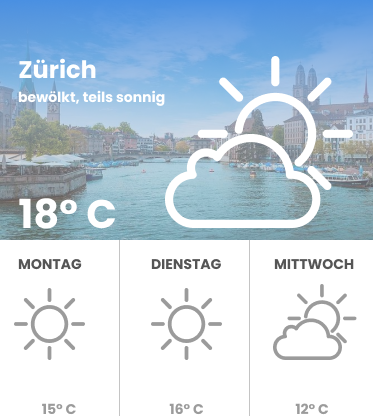
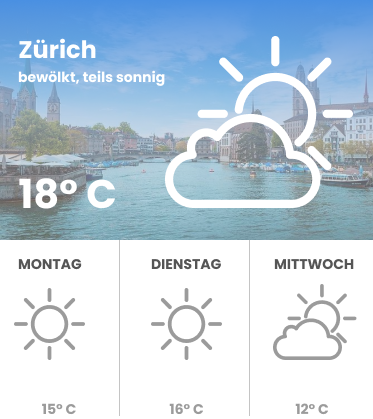
letzte Anpassungen

diff --git a/src/components/grid.scss b/src/components/grid.scss
@@ -5,45 +5,13 @@
   display: grid;
   grid-template-columns: repeat(12, 1fr);
   grid-column-gap: 1.5rem;
-  grid-template-rows: repeat(16, 1fr);
+  grid-template-rows: auto repeat(15, 1fr);
   grid-row-gap: 1.5rem;
   @include media(m) {
+    grid-template-rows: repeat(16, 1fr);
     height: 20rem;
   }
 }
-// Grid-Areas
-.wirtschaft-titel {
-  grid-area: wirtschaft-titel;
-}
-
-.wetter-titel {
-  grid-area: wetter-titel;
-}
-
-.wirtschaft-beitrag-gross {
-  grid-area: wirtschaft-beitrag-gross;
-}
-
-.wirtschaft-beitrag-klein-1 {
-  grid-area: wirtschaft-beitrag-klein-1;
-}
-
-.wirtschaft-beitrag-klein-2 {
-  grid-area: wirtschaft-beitrag-klein-2;
-}
-
-.wirtschaft-beitrag-klein-3 {
-  grid-area: wirtschaft-beitrag-klein-3;
-}
-
-.wirtschaft-beitrag-klein-4 {
-  grid-area: wirtschaft-beitrag-klein-4;
-}
-
-.wetter-widget {
-  grid-area: wetter-widget;
-}
-
 
 .grid-test {
   // Grid Mobile
@@ -54,16 +22,29 @@
   "wirtschaft-beitrag-gross wirtschaft-beitrag-gross wirtschaft-beitrag-gross wirtschaft-beitrag-gross wirtschaft-beitrag-gross wirtschaft-beitrag-gross wirtschaft-beitrag-gross wirtschaft-beitrag-gross wirtschaft-beitrag-gross wirtschaft-beitrag-gross wirtschaft-beitrag-gross wirtschaft-beitrag-gross"
   "wirtschaft-beitrag-gross wirtschaft-beitrag-gross wirtschaft-beitrag-gross wirtschaft-beitrag-gross wirtschaft-beitrag-gross wirtschaft-beitrag-gross wirtschaft-beitrag-gross wirtschaft-beitrag-gross wirtschaft-beitrag-gross wirtschaft-beitrag-gross wirtschaft-beitrag-gross wirtschaft-beitrag-gross"
   "wirtschaft-beitrag-gross wirtschaft-beitrag-gross wirtschaft-beitrag-gross wirtschaft-beitrag-gross wirtschaft-beitrag-gross wirtschaft-beitrag-gross wirtschaft-beitrag-gross wirtschaft-beitrag-gross wirtschaft-beitrag-gross wirtschaft-beitrag-gross wirtschaft-beitrag-gross wirtschaft-beitrag-gross"
-  "wetter-widget wetter-widget wetter-widget wetter-widget wetter-widget wetter-widget wetter-widget wetter-widget wetter-widget wetter-widget wetter-widget wetter-widget"
-  "wetter-widget wetter-widget wetter-widget wetter-widget wetter-widget wetter-widget wetter-widget wetter-widget wetter-widget wetter-widget wetter-widget wetter-widget"
-  "wetter-widget wetter-widget wetter-widget wetter-widget wetter-widget wetter-widget wetter-widget wetter-widget wetter-widget wetter-widget wetter-widget wetter-widget"
-  "wetter-widget wetter-widget wetter-widget wetter-widget wetter-widget wetter-widget wetter-widget wetter-widget wetter-widget wetter-widget wetter-widget wetter-widget"
   "wirtschaft-beitrag-klein-1 wirtschaft-beitrag-klein-1 wirtschaft-beitrag-klein-1 wirtschaft-beitrag-klein-1 wirtschaft-beitrag-klein-1 wirtschaft-beitrag-klein-1 wirtschaft-beitrag-klein-2 wirtschaft-beitrag-klein-2 wirtschaft-beitrag-klein-2 wirtschaft-beitrag-klein-2 wirtschaft-beitrag-klein-2 wirtschaft-beitrag-klein-2"
   "wirtschaft-beitrag-klein-1 wirtschaft-beitrag-klein-1 wirtschaft-beitrag-klein-1 wirtschaft-beitrag-klein-1 wirtschaft-beitrag-klein-1 wirtschaft-beitrag-klein-1 wirtschaft-beitrag-klein-2 wirtschaft-beitrag-klein-2 wirtschaft-beitrag-klein-2 wirtschaft-beitrag-klein-2 wirtschaft-beitrag-klein-2 wirtschaft-beitrag-klein-2"
   "wirtschaft-beitrag-klein-1 wirtschaft-beitrag-klein-1 wirtschaft-beitrag-klein-1 wirtschaft-beitrag-klein-1 wirtschaft-beitrag-klein-1 wirtschaft-beitrag-klein-1 wirtschaft-beitrag-klein-2 wirtschaft-beitrag-klein-2 wirtschaft-beitrag-klein-2 wirtschaft-beitrag-klein-2 wirtschaft-beitrag-klein-2 wirtschaft-beitrag-klein-2"
   "wirtschaft-beitrag-klein-3 wirtschaft-beitrag-klein-3 wirtschaft-beitrag-klein-3 wirtschaft-beitrag-klein-3 wirtschaft-beitrag-klein-3 wirtschaft-beitrag-klein-3 wirtschaft-beitrag-klein-4 wirtschaft-beitrag-klein-4 wirtschaft-beitrag-klein-4 wirtschaft-beitrag-klein-4 wirtschaft-beitrag-klein-4 wirtschaft-beitrag-klein-4"
   "wirtschaft-beitrag-klein-3 wirtschaft-beitrag-klein-3 wirtschaft-beitrag-klein-3 wirtschaft-beitrag-klein-3 wirtschaft-beitrag-klein-3 wirtschaft-beitrag-klein-3 wirtschaft-beitrag-klein-4 wirtschaft-beitrag-klein-4 wirtschaft-beitrag-klein-4 wirtschaft-beitrag-klein-4 wirtschaft-beitrag-klein-4 wirtschaft-beitrag-klein-4"
-  "wirtschaft-beitrag-klein-3 wirtschaft-beitrag-klein-3 wirtschaft-beitrag-klein-3 wirtschaft-beitrag-klein-3 wirtschaft-beitrag-klein-3 wirtschaft-beitrag-klein-3 wirtschaft-beitrag-klein-4 wirtschaft-beitrag-klein-4 wirtschaft-beitrag-klein-4 wirtschaft-beitrag-klein-4 wirtschaft-beitrag-klein-4 wirtschaft-beitrag-klein-4";
+  "wirtschaft-beitrag-klein-3 wirtschaft-beitrag-klein-3 wirtschaft-beitrag-klein-3 wirtschaft-beitrag-klein-3 wirtschaft-beitrag-klein-3 wirtschaft-beitrag-klein-3 wirtschaft-beitrag-klein-4 wirtschaft-beitrag-klein-4 wirtschaft-beitrag-klein-4 wirtschaft-beitrag-klein-4 wirtschaft-beitrag-klein-4 wirtschaft-beitrag-klein-4"
+  "wetter-titel wetter-titel wetter-titel wetter-titel wetter-titel wetter-titel wetter-titel wetter-titel wetter-titel wetter-titel wetter-titel wetter-titel"
+  "wetter-widget wetter-widget wetter-widget wetter-widget wetter-widget wetter-widget wetter-widget wetter-widget wetter-widget wetter-widget wetter-widget wetter-widget"
+  "wetter-widget wetter-widget wetter-widget wetter-widget wetter-widget wetter-widget wetter-widget wetter-widget wetter-widget wetter-widget wetter-widget wetter-widget"
+  "wetter-widget wetter-widget wetter-widget wetter-widget wetter-widget wetter-widget wetter-widget wetter-widget wetter-widget wetter-widget wetter-widget wetter-widget"
+  "wetter-widget wetter-widget wetter-widget wetter-widget wetter-widget wetter-widget wetter-widget wetter-widget wetter-widget wetter-widget wetter-widget wetter-widget"
+  "wetter-widget wetter-widget wetter-widget wetter-widget wetter-widget wetter-widget wetter-widget wetter-widget wetter-widget wetter-widget wetter-widget wetter-widget"
+  "wetter-widget wetter-widget wetter-widget wetter-widget wetter-widget wetter-widget wetter-widget wetter-widget wetter-widget wetter-widget wetter-widget wetter-widget"
+  "wetter-widget wetter-widget wetter-widget wetter-widget wetter-widget wetter-widget wetter-widget wetter-widget wetter-widget wetter-widget wetter-widget wetter-widget"
+  "wetter-widget wetter-widget wetter-widget wetter-widget wetter-widget wetter-widget wetter-widget wetter-widget wetter-widget wetter-widget wetter-widget wetter-widget"
+  "wetter-widget wetter-widget wetter-widget wetter-widget wetter-widget wetter-widget wetter-widget wetter-widget wetter-widget wetter-widget wetter-widget wetter-widget"
+  "wetter-widget wetter-widget wetter-widget wetter-widget wetter-widget wetter-widget wetter-widget wetter-widget wetter-widget wetter-widget wetter-widget wetter-widget"
+  "wetter-widget wetter-widget wetter-widget wetter-widget wetter-widget wetter-widget wetter-widget wetter-widget wetter-widget wetter-widget wetter-widget wetter-widget"
+  "wetter-widget wetter-widget wetter-widget wetter-widget wetter-widget wetter-widget wetter-widget wetter-widget wetter-widget wetter-widget wetter-widget wetter-widget"
+  "wetter-widget wetter-widget wetter-widget wetter-widget wetter-widget wetter-widget wetter-widget wetter-widget wetter-widget wetter-widget wetter-widget wetter-widget"
+  "wetter-widget wetter-widget wetter-widget wetter-widget wetter-widget wetter-widget wetter-widget wetter-widget wetter-widget wetter-widget wetter-widget wetter-widget"
+  "wetter-widget wetter-widget wetter-widget wetter-widget wetter-widget wetter-widget wetter-widget wetter-widget wetter-widget wetter-widget wetter-widget wetter-widget"
+  "wetter-widget wetter-widget wetter-widget wetter-widget wetter-widget wetter-widget wetter-widget wetter-widget wetter-widget wetter-widget wetter-widget wetter-widget";
   @include media(m) {
     //Desktop
     grid-template-areas:
@@ -201,7 +182,7 @@
 
 .card-4-5 {
   grid-column: span 12;
-  grid-row: span 7;
+  grid-row: span 3;
   @include media(m) {
     grid-column: span 4;
     grid-row: span 5;
@@ -258,7 +239,7 @@
 
 .card-4-17 {
   grid-column: span 12;
-  grid-row: span 2;
+  grid-row: span 8;
   @include media(m) {
     grid-column: span 4;
     grid-row: span 17;
@@ -339,7 +320,7 @@
 
 .card-8-5 {
   grid-column: span 12;
-  grid-row: span 4;
+  grid-row: span 1;
   align-items: center;
   @include media(m) {
     grid-column: span 8;
@@ -406,8 +387,8 @@
 
 .bild_in_grid_kolumne {
   overflow: hidden;
-	width: 35%;
-	height: 35%;
+	width: 35vw;
+	height: 35vw;
   margin-top: 1rem;
   margin-bottom: 1rem;
   margin-left: auto;
@@ -416,4 +397,76 @@
     width: 50%;
   	height: 50%;
   }
+}
+
+
+
+.bild_in_grid_wetter,
+.bild_in_grid_newsletter {
+  width: 100%;
+  img {
+    height: auto;
+  }
+}
+
+
+
+.bild_in_grid_werbung {
+  overflow: hidden;
+  width: 100%;
+  height: auto;
+  @include media(m) {
+    overflow: hidden;
+    width: 100%;
+  }
+  img {
+    height: auto;
+  }
+}
+
+.newsletter-werbung {
+  height: auto;
+  grid-template-rows: auto;
+  margin-top: 2rem;
+  margin-bottom: 2rem;
+  @include media(m) {
+    margin-top: 8rem;
+    grid-template-rows: repeat(1,1fr);
+  }
+}
+
+
+
+
+// Grid-Areas
+.wirtschaft-titel {
+  grid-area: wirtschaft-titel;
+}
+
+.wetter-titel {
+  grid-area: wetter-titel;
+}
+
+.wirtschaft-beitrag-gross {
+  grid-area: wirtschaft-beitrag-gross;
+}
+
+.wirtschaft-beitrag-klein-1 {
+  grid-area: wirtschaft-beitrag-klein-1;
+}
+
+.wirtschaft-beitrag-klein-2 {
+  grid-area: wirtschaft-beitrag-klein-2;
+}
+
+.wirtschaft-beitrag-klein-3 {
+  grid-area: wirtschaft-beitrag-klein-3;
+}
+
+.wirtschaft-beitrag-klein-4 {
+  grid-area: wirtschaft-beitrag-klein-4;
+}
+
+.wetter-widget {
+  grid-area: wetter-widget;
 }

diff --git a/src/index.html b/src/index.html
@@ -142,7 +142,13 @@
       </div>
 
 
-      <div class="card-4-17 wetter-widget">
+      <div class="card-12-1 wetter-titel">
+        <hr />
+        <h6>Wetter</h6>
+      </div>
+
+
+      <div class="card-4-17 wetter-widget bild_in_grid_wetter">
         <div><img src="./assets/images/NP_wetter.png" alt="Wetter" /></div>
       </div>
 
@@ -157,7 +163,6 @@
           Wer zahlt die Druckerpatrone?
         </h3>
       </div>
-
 
 
       <div class="card-2-8 wirtschaft-beitrag-klein-1">
@@ -194,81 +199,81 @@
         <h3>Stabilisator Sergio Ermotti sagt Ciao</h3>
       </div>
     </div>
-
     <br />
     <!-- Wirtschaft + Wetter END -->
 
 
     <!-- Newsletter + Werbung Start -->
-    <br />
-    <br />
-    <br />
-    <br />
-    <br />
-    <br />
-    <div class="grid-12-6">
-      <div class="card-4-5 bild_in_grid_passend">
+    <div class="grid-12-6 newsletter-werbung">
+      <div class="card-4-1 bild_in_grid_newsletter">
         <img src="./assets/images/NP_newsletter.png" alt="Newsletter" />
       </div>
-
-
-      <div class="card-8-5">
-        <div class="bild_in_grid_passend">
+      <div class="card-8-1">
+        <div class="bild_in_grid_werbung">
           <img src="./assets/images/NP_Werbe-Banner.gif" alt="Werbung" />
         </div>
       </div>
-      <!-- Newsletter + Werbung End -->
+    </div>
+    <!-- Newsletter + Werbung End -->
 
+    <!-- Kolumne Start-->
 
-
-      <!-- Kolumne Start-->
+    <div class="grid-12-6">
       <div class="card-12-1">
         <hr />
         <h6>KOMMENTAR ZU</h6>
         <div style="float:right;height:1.2rem;width:auto;margin-top:-1em;"> <img src="./assets/images/NP_Pfeile-Kolumne.svg" /> </div>
       </div>
 
-      <div class="card-3-10" style="text-align: center">
+      <div class="card-3-10" style="text-align:center;padding-left:1rem;padding-right:1rem;">
         <h5>Schweiz und China</h5>
         <h1>Das opportunistische Schweigen ist passé</h1>
-        <h4>Die Schweiz muss China wegen der Menschenrechtsverletzungen deutlicher kritisieren. Und sie sollte die Sanktionsregelung der EU übernehmen.</h4>
+        <h4>Die Schweiz muss China wegen Menschenrechtsverletzungen deutlicher kritisieren. Und sie sollte die Sanktionsregelung der EU übernehmen.</h4>
         <div class="bild_in_grid_kolumne">
-          <img src="./assets/images/NP_Kolumne-1.png" alt="Laeden" />
+          <img src="./assets/images/NP_Kolumne-1.png" alt="Claudia Blumer" />
         </div>
         <h4>Claudia Blumer | 18.01.2021</h4>
+        <br />
+        <hr />
       </div>
 
 
-      <div class="card-3-10" style="text-align: center">
+      <div class="card-3-10" style="text-align:center;padding-left:1rem;padding-right:1rem;">
         <h5>Verkauf der Postbank</h5>
         <h1>Die Privatisierung der Postfinance hat kaum eine Chance</h1>
         <h4>Die Postfinance verliert Geld und Kunden. Aber die jetzt geplante Privatisierung bringt keine Rettung.</h4>
         <div class="bild_in_grid_kolumne">
-          <img src="./assets/images/NP_Kolumne-2.png" alt="Laeden" />
+          <img src="./assets/images/NP_Kolumne-2.png" alt="Jorgos Brouzos" />
         </div>
         <h4>Jorgos Brouzos | 18.01.2021</h4>
+        <br />
+        <hr />
       </div>
 
 
-      <div class="card-3-10" style="text-align: center">
+      <div class="card-3-10" style="text-align:center;padding-left:1rem;padding-right:1rem;">
         <h5>Raffainers Abwerbung</h5>
         <h1>Was für eine Doppelmoral des SC Bern!</h1>
         <h4> Als Treiber der Ligareformen beschwören die Berner das Wohl aller. Nun jagen sie dem HC Davos den Sportchef ab. Das zeigt: Solidarität ist nur eine Floskel.</h4>
         <div class="bild_in_grid_kolumne">
-          <img src="./assets/images/NP_Kolumne-3.png" alt="Laeden" />
+          <img src="./assets/images/NP_Kolumne-3.png" alt="Simon Graf" />
         </div>
         <h4>Simon Graf | 19.01.2021</h4>
+        <br />
+        <hr />
       </div>
 
 
-      <div class="card-3-10" style="text-align: center">
+      <div class="card-3-10" style="text-align:center;padding-left:1rem;padding-right:1rem;">
         <h5>Corona-Egoismus</h5>
         <h1>Darf man noch Ferien von der Pandemie machen?</h1>
-        <h4>Schweizer Promis lümmeln dieser Tage am Strand, die Nachbarn geniessen die Skipiste, die Kollegin isst im Hotel-Restaurant. Müssen wir uns das gefallen lassen?</h4>
+        <h4>Schweizer Promis lümmeln dieser Tage am Strand oder die Nachbarn geniessen die Skipiste. Müssen wir uns das gefallen lassen?</h4>
         <div class="bild_in_grid_kolumne">
-          <img src="./assets/images/NP_Kolumne-4.png" alt="Laeden" />
+          <img src="./assets/images/NP_Kolumne-4.png" alt="Hans Jürg Zinsli" />
         </div>
         <h4>Hans Jürg Zinsli | 20.01.2021</h4>
+        <br />
+        <hr />
       </div>
     </div>
   </div>

diff --git a/src/components/footer.scss b/src/components/footer.scss
@@ -8,14 +8,16 @@ footer {
   right: 0;
   background: #333333;
   height: auto;
-  margin-top:20rem;
+  margin-top:5rem;
+  @include media(m) {
+    margin-top:12rem;
+  }
 }
 
 .footer h5 {
   color: #929292;
   font-size: 1rem;
   line-height: 150%;
-
   @include media(m) {
     font-size: 0.7rem;
   }
